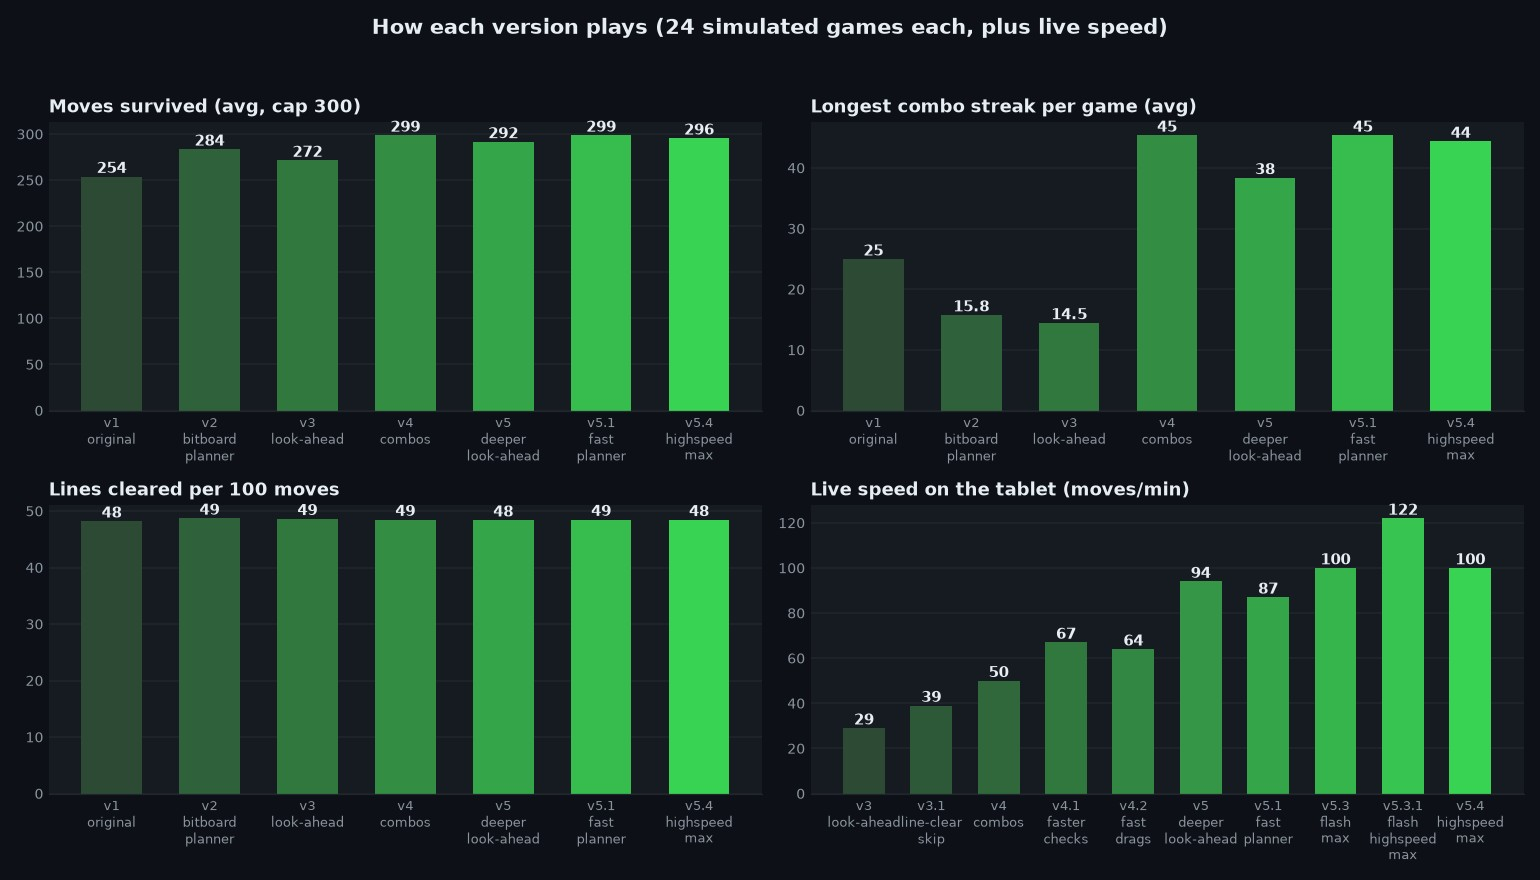
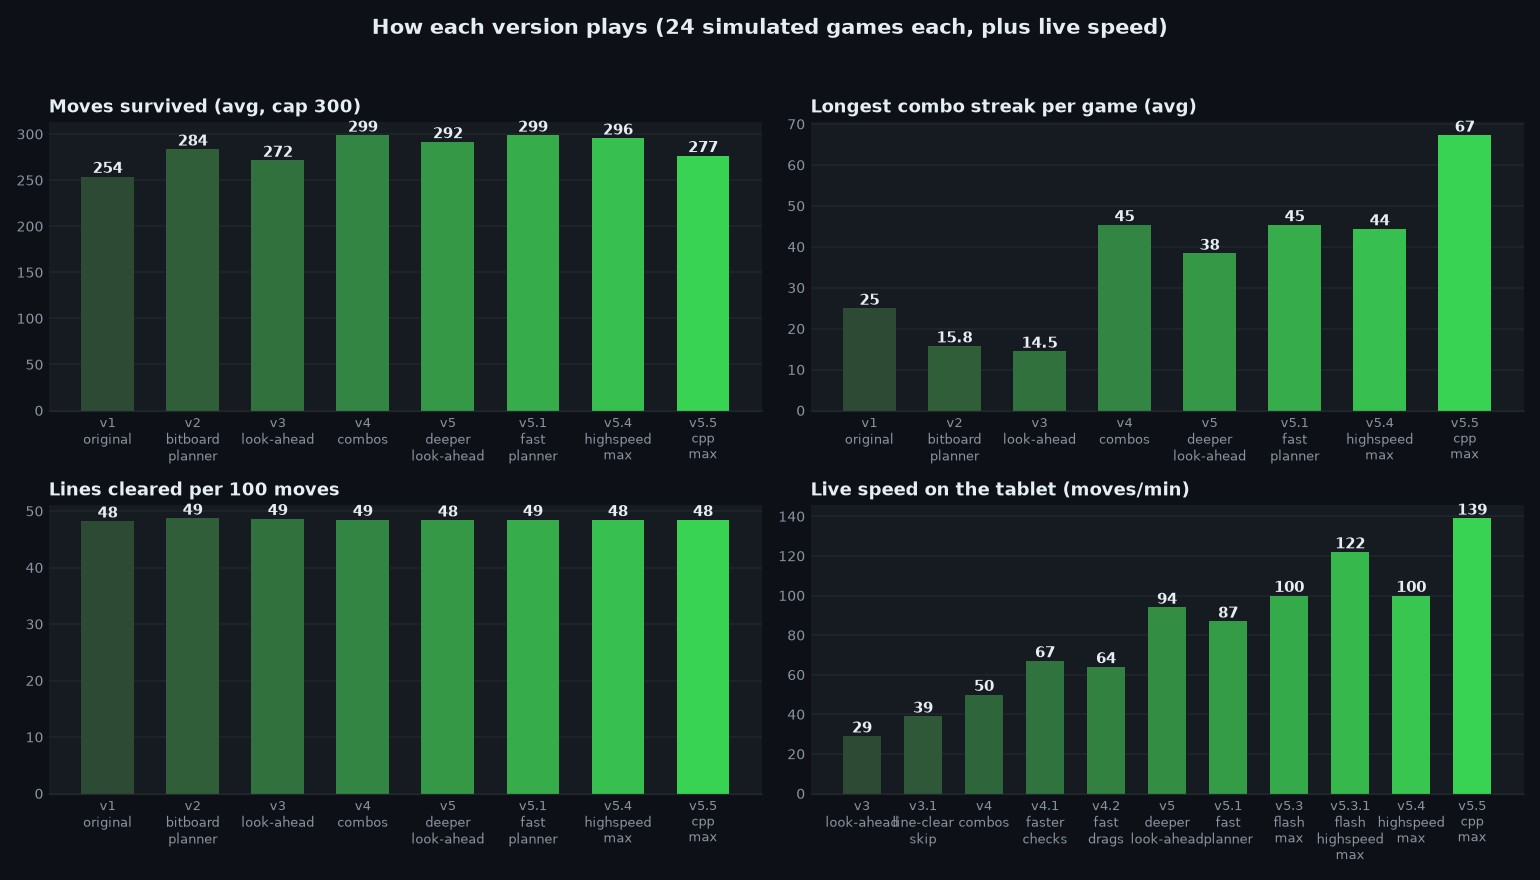
Benchmark and README for v5.5-cpp-max (139 moves/min live)

diff --git a/bench.py b/bench.py
@@ -30,7 +30,7 @@ VERSIONS = [
     ('v5 deeper look-ahead', '698ad26', 'combo'),
     ('v5.1 fast planner', 'f16d74a', 'combo'),
     ('v5.4 highspeed max', '85fa355', 'combo'),
-    ('v5.5 cpp max', None, 'cpp'),
+    ('v5.5 cpp max', 'e2f0115', 'cpp'),
 ]
 # Where each C++ version's planner source lives in its commit.
 CPP_SRC = {'v5.5 cpp max': 'versions/v5.5-cpp-max/src'}
@@ -41,7 +41,7 @@ LIVE_SPEED = {'v1 original': None, 'v2 bitboard planner': None, 'v3 look-ahead':
               'v5 deeper look-ahead': 94, 'v5.1 fast planner': 87,
               'v5.3 flash max': 100,
               'v5.3.1 flash highspeed max': 122,
-              'v5.4 highspeed max': 100, 'v5.5 cpp max': None}
+              'v5.4 highspeed max': 100, 'v5.5 cpp max': 139}
 
 WINDOW = current.COMBO_WINDOW
 

diff --git a/README.md b/README.md
@@ -24,6 +24,7 @@ Every planner version plays the same simulated games (`python bench.py`); live s
 | v5.3 flash max | Same planner as v5.1. No check screenshot after each tray (the next tray's screenshot confirms the board), learned wait for the game to deal the next tray, 120 ms drags. 100 moves/min over 302 live moves (median tray 1.3 s). Trade-off: its picture of the board can drift without the per-tray check; one game ended earlier than it should have because of that. |
 | v5.3.1 flash highspeed max | Same planner. Stricter board check from the screenshot it already takes: a block the screen shows empty is removed at once; extra blocks are added only when nothing is animating (combo text is drawn in flat letters that look like blocks). Fewer re-reads, so most trays need one screenshot. 80 ms drags. 122 moves/min over 301 live moves (average tray 1.41 s), no missed drops. |
 | v5.4 highspeed max | Fast like v5.3.1 while the board is open; careful when it is crowded (28+ cells after a tray): a deeper look-ahead (48 future trays) and a real check screenshot. A board that looks very different from the bot's picture is read carefully before planning. On 20 long games (up to 600 moves) it survived 494 moves vs v5.1's 466 and was never worse; on the chart's 24 shorter games it is about even with v5.1 (296 vs 299). ~100 moves/min live. |
+| v5.5 cpp max | **Rewritten in C++** (`versions/v5.5-cpp-max/`), with a small Java helper on the tablet that mirrors the screen (a frame in 0.04 s instead of 0.37 s) and injects touches directly. Planning takes ~2–5 ms per tray, so the look-ahead is much deeper (64 future trays x 16 candidates) and plays future trays keeping the combo going. Every drop is checked, so the board picture doesn't drift. **139 moves/min** over 688 live moves with no board corrections. Longest combo streak 67 vs v5.1's 45. Survival: on the chart's 24 games it lost 4 before 300 moves (v5.1: 1), but on 96 other games capped at 300 it reached the cap 83 times vs v5.1's 77, and on 96 games up to 1500 moves it survived 1161 moves on average vs v5.1's 945 (`build\sim.exe`); 24 games are too few to separate them. |
 
 ## How it works
 
